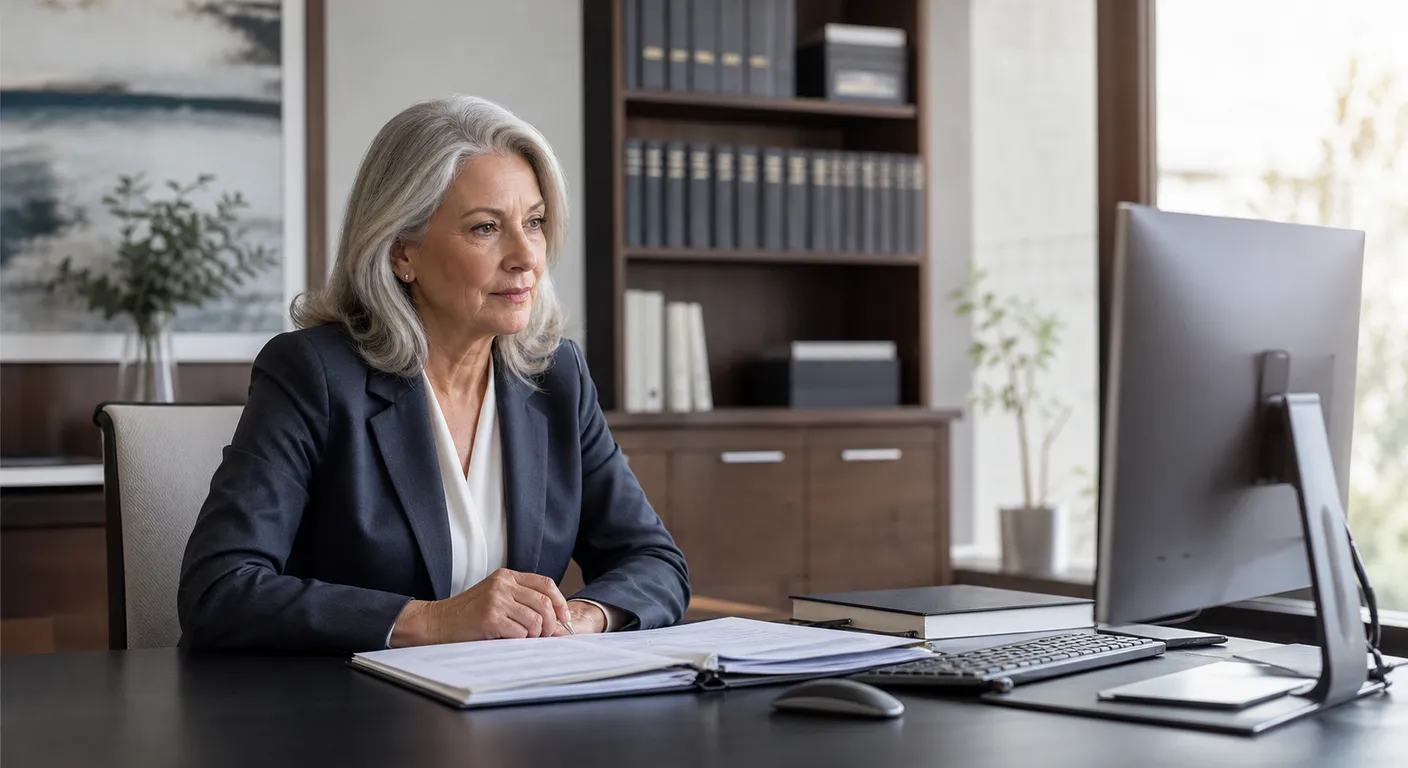
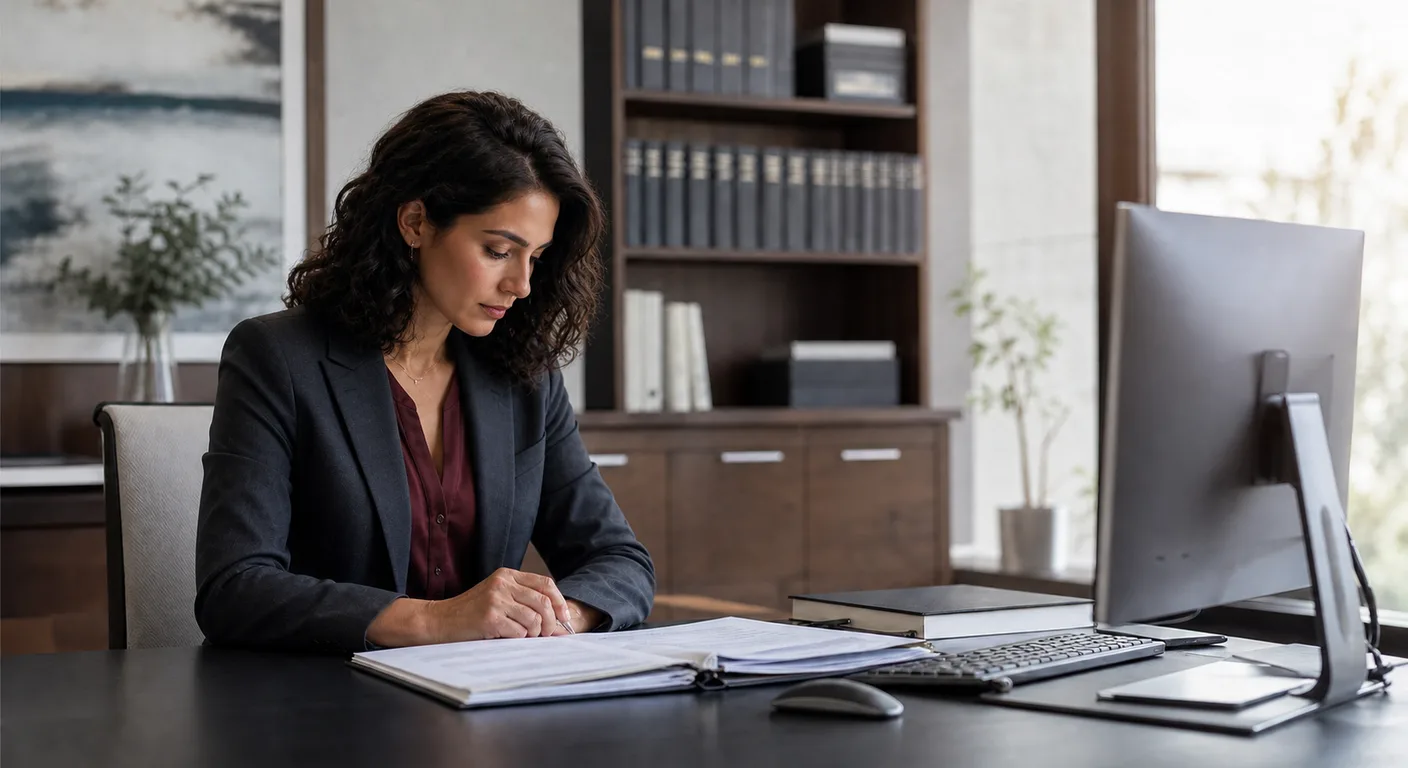
fix: refine professional landing heroes

Changed region(s): [[0.125, 0.0938, 0.5, 0.9375], [0.6875, 0.8125, 0.8125, 0.875], [0.9688, 0.8438, 1.0, 0.875]]

diff --git a/src/data/legalLanding.ts b/src/data/legalLanding.ts
@@ -1,21 +1,21 @@
 import { buildFeaturePageJsonLd } from '@/utils/jsonLd';
 
 export const LEGAL_PAGE_PATH = '/for-legal';
-export const LEGAL_PAGE_TITLE = 'Organize Legal Documents with AI';
+export const LEGAL_PAGE_TITLE = 'AI Legal Document Renamer for Law Firms';
 
 export const LEGAL_HERO = {
   eyebrow: 'For law firms and legal teams',
-  titleLead: 'Organize legal documents ',
-  titleAccent: 'with AI',
+  titleLead: 'Rename legal documents by ',
+  titleAccent: 'matter, date, and type',
   subtitle:
-    'Turn pleadings, contracts, correspondence, discovery, and scans into searchable, matter-based case files. Zush works with your existing folders, shared drives, and DMS exports on Mac or Windows.',
+    'Zush reads pleadings, contracts, correspondence, discovery, and scans, then gives them consistent, searchable filenames. Use it with existing folders, shared drives, and DMS exports on Mac or Windows.',
   trustLine: [
     'Works with your existing folders',
     'Offline AI for confidential files',
     'Preview before every rename',
   ],
   photo: {
-    alt: 'An attorney organizing legal case documents at a desktop computer',
+    alt: 'A young attorney reviewing case documents at a desktop computer in her office',
   },
 } as const;
 
@@ -248,7 +248,7 @@ export const LEGAL_JSON_LD = buildFeaturePageJsonLd({
   software: {
     pagePath: LEGAL_PAGE_PATH,
     description:
-      'AI legal document organizer for law firms on Mac and Windows. Zush turns inconsistent filenames into searchable, matter-based case files without replacing the firm’s document management system.',
+      'AI legal document renamer and organizer for law firms on Mac and Windows. Zush turns inconsistent filenames into searchable, matter-based case files without replacing the firm’s document management system.',
     applicationSubCategory: 'Legal File Organization Software',
     featureList: [
       'Organize legal documents into searchable, matter-based case files',

diff --git a/src/seo/config.ts b/src/seo/config.ts
@@ -180,13 +180,13 @@ const ROUTE_META: Record<string, RouteSeoMeta> = {
       'AI file renamer for photographers, photo file naming software, video file renamer, batch rename RAW photos, rename video clips by content, photographer file naming workflow, videographer file organization, media file renamer',
   },
   '/for-legal': {
-    title: 'Organize Legal Documents with AI | Zush for Law Firms',
+    title: 'AI Legal Document Renamer for Law Firms | Zush',
     description:
-      'Organize case files, contracts, pleadings, and scans with AI. Create searchable filenames, work with your DMS, and run locally on Mac or Windows.',
+      'Rename and organize case files, contracts, pleadings, and scans with AI. Create searchable filenames, work with your DMS, and run locally on Mac or Windows.',
     robots: 'index, follow',
     ogType: 'website',
     keywords:
-      'legal document organizer, organize legal documents, legal file organization, organize case files, AI document organizer for lawyers, law firm document management workflow, matter file organization, legal document naming software',
+      'AI legal document renamer, rename legal documents, legal document organizer, organize legal documents, legal file organization, organize case files, law firm document management workflow, matter file organization, legal document naming software',
   },
   '/rename-scanned-documents': {
     title: 'Rename Scanned Documents Automatically | Zush',

diff --git a/src/components/LegalLandingPage/LegalHero.module.scss b/src/components/LegalLandingPage/LegalHero.module.scss
@@ -113,18 +113,15 @@
 // declares the same properties, so a single class here would tie on
 // specificity and the winner would depend on bundle order.
 //
-// Same clamp / wrap / 42rem cap as the homepage hero; a soft shadow keeps the
-// text crisp over the photo.
+// Same clamp / wrap / 42rem cap as the homepage hero.
 .Hero__Title.Hero__Title {
     margin: 0 0 $space-md;
     font-size: clamp(2.4rem, 5.5vw, 3.5rem);
     text-wrap: balance;
-    text-shadow: 0 1px 10px color-mix(in srgb, var(--background), transparent 25%);
 }
 
 .Hero__Subtitle.Hero__Subtitle {
     margin: 0;
     max-width: 42rem;
     text-wrap: pretty;
-    text-shadow: 0 1px 8px color-mix(in srgb, var(--background), transparent 35%);
 }

diff --git a/src/components/MedicalLandingPage/MedicalHero.module.scss b/src/components/MedicalLandingPage/MedicalHero.module.scss
@@ -113,18 +113,15 @@
 // declares the same properties, so a single class here would tie on
 // specificity and the winner would depend on bundle order.
 //
-// Same clamp / wrap / 42rem cap as the homepage hero; a soft shadow keeps the
-// text crisp over the photo.
+// Same clamp / wrap / 42rem cap as the homepage hero.
 .Hero__Title.Hero__Title {
     margin: 0 0 $space-md;
     font-size: clamp(2.4rem, 5.5vw, 3.5rem);
     text-wrap: balance;
-    text-shadow: 0 1px 10px color-mix(in srgb, var(--background), transparent 25%);
 }
 
 .Hero__Subtitle.Hero__Subtitle {
     margin: 0;
     max-width: 42rem;
     text-wrap: pretty;
-    text-shadow: 0 1px 8px color-mix(in srgb, var(--background), transparent 35%);
 }
